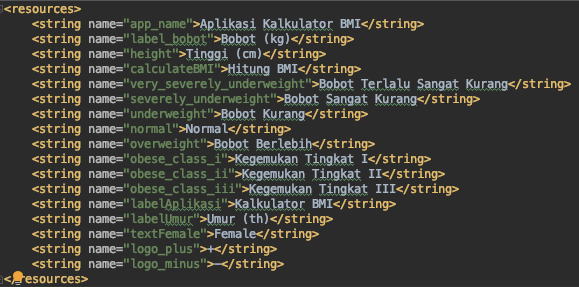
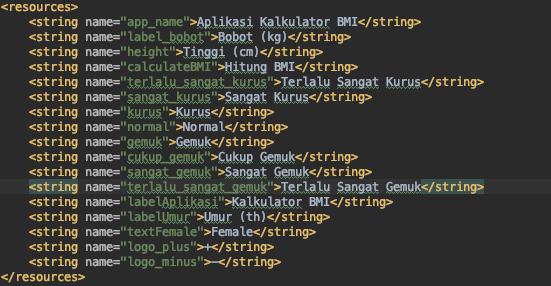
Chapter 6: Update Praktikum 1 Tahap 2

Changed region(s): [[0.0, 0.0, 1.0, 1.0]]

diff --git a/chapter06/chapter06-02praktikum01.md b/chapter06/chapter06-02praktikum01.md
@@ -46,31 +46,168 @@ Layout yang dibuat meliputi beberapa komponen yaitu `RadioGroup`, `TextView`, `E
 7. Tambahkan sebuah `Button` di bagian layout paling bawah untuk tombol proses hitung BMI.![button bmi](images/2.14_btn_hitbmi.png) 
 8. Tanda merah yang terdapat di kode program diatasi dengan memperhatikan posisi `value` yang seharusnya diletakkan, seperti **@string/** berarti terletak di **app -> res -> values -> string**.
 
-    a. string.xml
+    a. **string.xml**, di dalam **string.xml** selain `logo_plus` dan `logo_minus` terdapat beberapa string yang sudah tertulis, oleh karena itu sebaiknya peserta menuliskan semua string sesuai dengan petunjuk di bawah ini sehingga seluruh sumber daya string yang digunakan pada aplikasi yang dibuat langsung tersedia tanpa harus menyediakan string tersebut pada setiap langkah penulisan kode program. 
 
     ![strings xml](images/2.15_stringxml.png)
 
-    b. dimen.xml
+    b. **dimen.xml**
 
     ![dimens xml](images/2.16_dimenxml.png)
 
-    c. drawable
+    c. **drawable**, berdasarkan properti pada `RadioButton` yang sudah dibuat di **activity_main.xml** yaitu `android:background="@drawable/radio_flat_selector"` dan `android:textColor="@drawable/radio_flat_text_selector"`, maka di direktori drawable perlu penambahan berkas sumber daya bernama **radio_flat_selector.xml** yang berfungsi memberikan efek ganti warna pada `RadioButton` ketika dipilih (berwarna pink) atau tidak dipilih (warna putih) dan **radio_flat_text_selector.xml** yang berfungsi untuk memberikan warna yang khas ketika terpilih (teks berwarna putih) dan tidak terpilih (teks berwarna pink) bagi setiap teks di `RadioButton` tersebut.
 
+    **radio_flat_selector.xml**
+    ![radio_flat_text_selector xml](images/2.18_warna_rdbtn.png)
+
+    Perlu diketahui bahwa di dalam **radio_flat_selector.xml** ternyata membutuhkan **radio_flat_selected.xml** sebagai penanda perubahan warna untuk `RadioButton` yang terpilih dan **radio_flat_regular.xml** sebagai penanda perubahan warna untuk `RadioButton` yang tidak terpilih di direktori **drawable**, oleh karena itu tambahkan dua berkas tersebut.
+
+    **radio_flat_selected.xml**
+    ![radio_flat_selected xml](images/2.19_rd_selected.png)
+
+    **radio_flat_regular.xml**
+    ![radio_flat_reguler xml](images/2.20_rd_reguler.png)
+
+    Perhatikan tag `<shape>` di kedua berkas radio flat, terdapat `android:shape="rectangle"` yang menandakan `RadioButton` yang dibuat berbentuk persegi (mirip `Button`, bukan bulatan point seperti `RadioButton` pada umumnya). Jika `@color/colorWhite` belum terdaftar di **colors.xml** di **values** maka tambahkan `<color name="colorWhite">#FFFFFF</color>` di dalamnya
+
+    Adapun isi dari **radio_flat_text_selector.xml** adalah sebagai berikut:
+
+    **radio_flat_text_selector.xml**
+    ![radio_flat_text_selector xml](images/2.17_warna_teks_rdbtn.png)
+
+    
 ## Fitur BMI
-
+Fungsi yang dikembangkan dibuat di **MainActivity.java** meliputi: fungsi dasar, fungsi hitung BMI, dan tampilan hasil melalui Dialog Box. 
 ### Fungsi Dasar
+1. Berdasarkan kegiatan sebelumnya, diketahui terdapat tiga komponen antarmuka untuk masukan yang dibuat, yaitu: `EditText`, `RadioGroup`, dan `RadioButton`. Walaupun terdapat beberapa `Button` yang memiliki id yaitu `calc`, `krgBerat`, `tmbBerat`, `krgTinggi`, `tmbTinggi`, `krgUmur`, dan  `tmbUmur` untuk memproses nilai masukan, `Button` tersebut tidak perlu diinisialisasikan di **MainActivity.java** karena sudah didaftarkan `android:onClick=""` di `Button` tersebut (secara otomatis mengarah ke method yang dituju). 
+![dasarsatu MainActivity java](images/2.21_dasarsatu.png)
 
-### Menu Pilih Gender (RadioGrup)
+2. Tambahkan inisialisasi tipe data dari setiap `EditText` yang ditampilkan di antarmuka.
+![dasardua MainActivity java](images/2.22_dasardua.png)
+
+3. Kenalkan komponen tersebut sesuai id yang didaftarkan melalui activity_main.xml.
+![dasartiga MainActivity java](images/2.23_dasartiga.png)
+Khusus `RadioGroup` pastikan juga diberikan sebuah variabel bernama `pilihGender` untuk mendapatkan id dari `RadioButton` yang dipilih.
+![dasarempat MainActivity java](images/2.24_dasarempat.png)
+
+4. Supaya tombol plus dan minus yang terdapat pada setiap menu bobot, tinggi, dan umur berfungsi maka buat method untuk mengaktifkan pengurangan dan penambahan nilai pada `EditText` di setiap menu.
+Contoh pada menu bobot
+![dasarlima MainActivity java](images/2.25_dasarlima.png)
+Buat juga method yang lain untuk menu tinggi dan umur sesuai yang terdaftar di `android:onClick=""` di **activity_main.xml**. Jika `displayBerat()` masih berwarna merah, abaikan saja karena method ini dibuat di langkah selanjutnya.
+
+5. Supaya method yang dibuat pada langkah 4 (langkah sebelumnya) berfungsi di EditText, maka tambahkan method display untuk setiap menu.
+![dasarenam MainActivity java](images/2.26_dasarenam.png)
+Buat juga method yang lain untuk menu tinggi dan umur.
+
+6. Versi lengkap dari langkah 4 dan 5 adalah sebagai berikut
+
+    **method krg dan tmb**
+![dasartujuh MainActivity java](images/2.27_dasartujuh.png)
+
+    **method display**
+![dasarenam MainActivity java](images/2.28_dasardelapan.png)
 
 ### Hitung BMI 
+Penghitungan BMI membutuhkan method `calculateBMI()` sesuai dengan properti `android:onClick="calculateBMI"` pada `Button` dengan id `calc`.
 
-### Tampil Hasil (Dialog Box)
+1. Buat method `calculateBMI()`
+![bmisatu MainActivity java](images/2.29_bmisatu.png)
+
+2. Inisialisasi tipe data string untuk variabel `bobotStr` dan `tinggiStr`
+![bmidua MainActivity java](images/2.30_bmidua.png)
+
+3. Untuk menghitung BMI, pastikan kolom bobot dan tinggi tidak null (kosong)
+![bmitiga MainActivity java](images/2.31_bmitiga.png)
+
+4. Tambahkan penghitungan BMI
+![bmiempat MainActivity java](images/2.32_bmiempat.png)
+
+5. Tambahkan `displayBMI()` untuk menampilkan hasil penghitungan BMI. Jika `displayBMI()` bertanda merah, abaikan dulu karena method akan dibuat pada subbab selanjutnya.
+![bmilima MainActivity java](images/2.33_bmilima.png)
+
+### Tampil Hasil Hitung BMI
+Hasil peghitungan BMI ditampilkan dalam bentuk `AlertDialog` yang diproses di method `displayBMI()`.
+
+1. Buat method `displayBMI()`
+![tampilsatu MainActivity java](images/2.34_tampilsatu.png)
+
+2. Buat variabel dengan tipe data String bernama `bmiLabel` (untuk menampilkan hasil penghitungan BMI) dan `infoUmur` (untuk menampilkan nilai dari kolom umur yang telah dimasukkan)
+![tampildua MainActivity java](images/2.35_tampildua.png)
+
+3. Tambahkan informasi kategori BMI berdasarkan kriteria berikut.
+
+    **Tabel Kriteria BMI**
+    | Kategori             | BMI  |      |
+    |----------------------|------|------|
+    |                      | **dari** | **ke**   |
+    | Terlalu sangat kurus |      | 15.0 |
+    | Sangat kurus         | 15.0 | 16.0 |
+    | Kurus                | 16   | 18.5 |
+    | Normal               | 18.5 | 25   |
+    | Gemuk                | 25   | 30   |
+    | Cukup Gemuk          | 30   | 35   |
+    | Sangat gemuk         | 35   | 40   |
+    | Terlalu sangat gemuk | 40   |      |
+
+    ![tampiltiga MainActivity java](images/2.36_tampiltiga.png)
+
+4. Tambahkan `bmiLabel` sebagai variabel penampung data yang dimasukkan dan hasil penghitungan BMI.
+    ~~~
+    bmiLabel = "Jenis kelamin: " +  rdGender.getText() + "\n\n" + "Hasil     Penghitungan BMI : " + bmi + " --- " +  "Kategori: " + "(" + bmiLabel + ")" + "\n\n"     + "Umur : " + infoUmur;
+    ~~~
+
+5. Hasil yang ditampilkan berupa `AlertDialog`, buat `AlertDialog` dengan mengambil data dari `bmiLabel` dan jenis tombol penutupnya adalah `NeutralButton` tanpa perintah apapun di dalam `onClick`.
+
+    ~~~
+    AlertDialog.Builder tampilBMI = new AlertDialog.Builder(this);
+
+        tampilBMI.setTitle("Hasil Penghitunan BMI");
+
+        tampilBMI.setMessage(bmiLabel).setNeutralButton("Tutup", new DialogInterface.OnClickListener() {
+            @Override
+            public void onClick(DialogInterface dialogInterface, int i) {
+
+
+            }
+        });
+
+        AlertDialog alertDialog = tampilBMI.create();
+        alertDialog.show();
+        ~~~
+
+
 
 ## Fitur Splash Screen
+`SplashScreen` dibuat sebagai pengantar dari aplikasi dibuka. 
 
 ### Layout splash screen
+1. Buat layout baru bernama **splashbmi.xml** dengan satu komponen `TextView` (boleh ditambah komponen lain). Warna background pada modul ini menggunakan warna `#3395ff`.
+![splashsatu MainActivity java](images/3.1_splashscreensatu.png)
+
+2. Hasil layout **splashbmi.xml**
+![splashdua MainActivity java](images/3.2_splashscreendua.png)
 
 ### Fungsi splash screen
+Buat **SplashActivity.java**, intent diarahkan ke **MainActivity.java** melalui `handler`, splash screen diatur selama 3.000 second.
+![splashtiga MainActivity java](images/3.3_splashscreentiga.png)
 
 ### Konfigurasi Android Manifest
+Karena tampilan awal dari aplikasi ini adalah splash screen, maka harus dilakukan perubahan pengaturan di **AndroidManifest.xml** dengan cara sebagai berikut:
+1. Buka **AndroidManifest.xml** di **app -> manifest - AndroidManifest.xml**.
+2. Ubah `<activity android:name=".MainActivity">` menjadi `<activity android:name=".SplashActivity">`.
+3.  Tambahkan activity baru dengan nama `.MainActivity` sehingga kode di dalam **AndroidManifest.xml** secara keseluruhan adalah sebagai berikut
+![splashempat MainActivity java](images/3.4_splashscreenempat.png)
 
+## Hasil Aplikasi
+Jalankan aplikasi yang telah dibuat, jika berhasil maka aplikasi akan berjalan sesuai tahapan berikut:
+
+1. Muncul splash screen sebagai tampilan pembuka aplikasi
+![hasilsatu MainActivity java](images/4.1_hasilsatu.png)
+
+2. Tampilan berikutnya adalah tampilan kalkulator dengan set nilai pada setiap menu bobot, tinggi, dan umur adalah 0 (sesuai set saat inisialisasi di kode program)
+![hasildua MainActivity java](images/4.2_hasildua.png)
+
+3. Percobaan pengisian data
+![hasiltiga MainActivity java](images/4.3_hasiltiga.png)
+
+4. Tekan tombol **Hitung BMI** dan laporan hasil penghitungan ditampilkan
+![hasilempat MainActivity java](images/4.4_hasilempat.png)

diff --git a/chapter06/chapter06-01pendahuluan.md b/chapter06/chapter06-01pendahuluan.md
@@ -12,6 +12,12 @@ Pada pertemuan kali ini, kegiatan yang dilakukan adalah pembuatan projek aplikas
 2. Layout dengan asset desain.
 
 ## Alat dan Bahan
-1. Android Studio
-2. Emulator android, atau
-3. Smartphone Android dan kabel data
+1. Starter Praktikum 01 [Starter Code Chapter 1 Praktikum 1](https://github.com/polinema-mobile/dtschapter06-starter/AplikasiKalkulatorBMI). memuat:
+
+    a. activity_main.xml beserta komponen (no constraint)
+
+    b. splashbmi.xml (kosong)
+
+    c. MainActivity.java (default)
+
+    d. SplashActivity.java (default)
